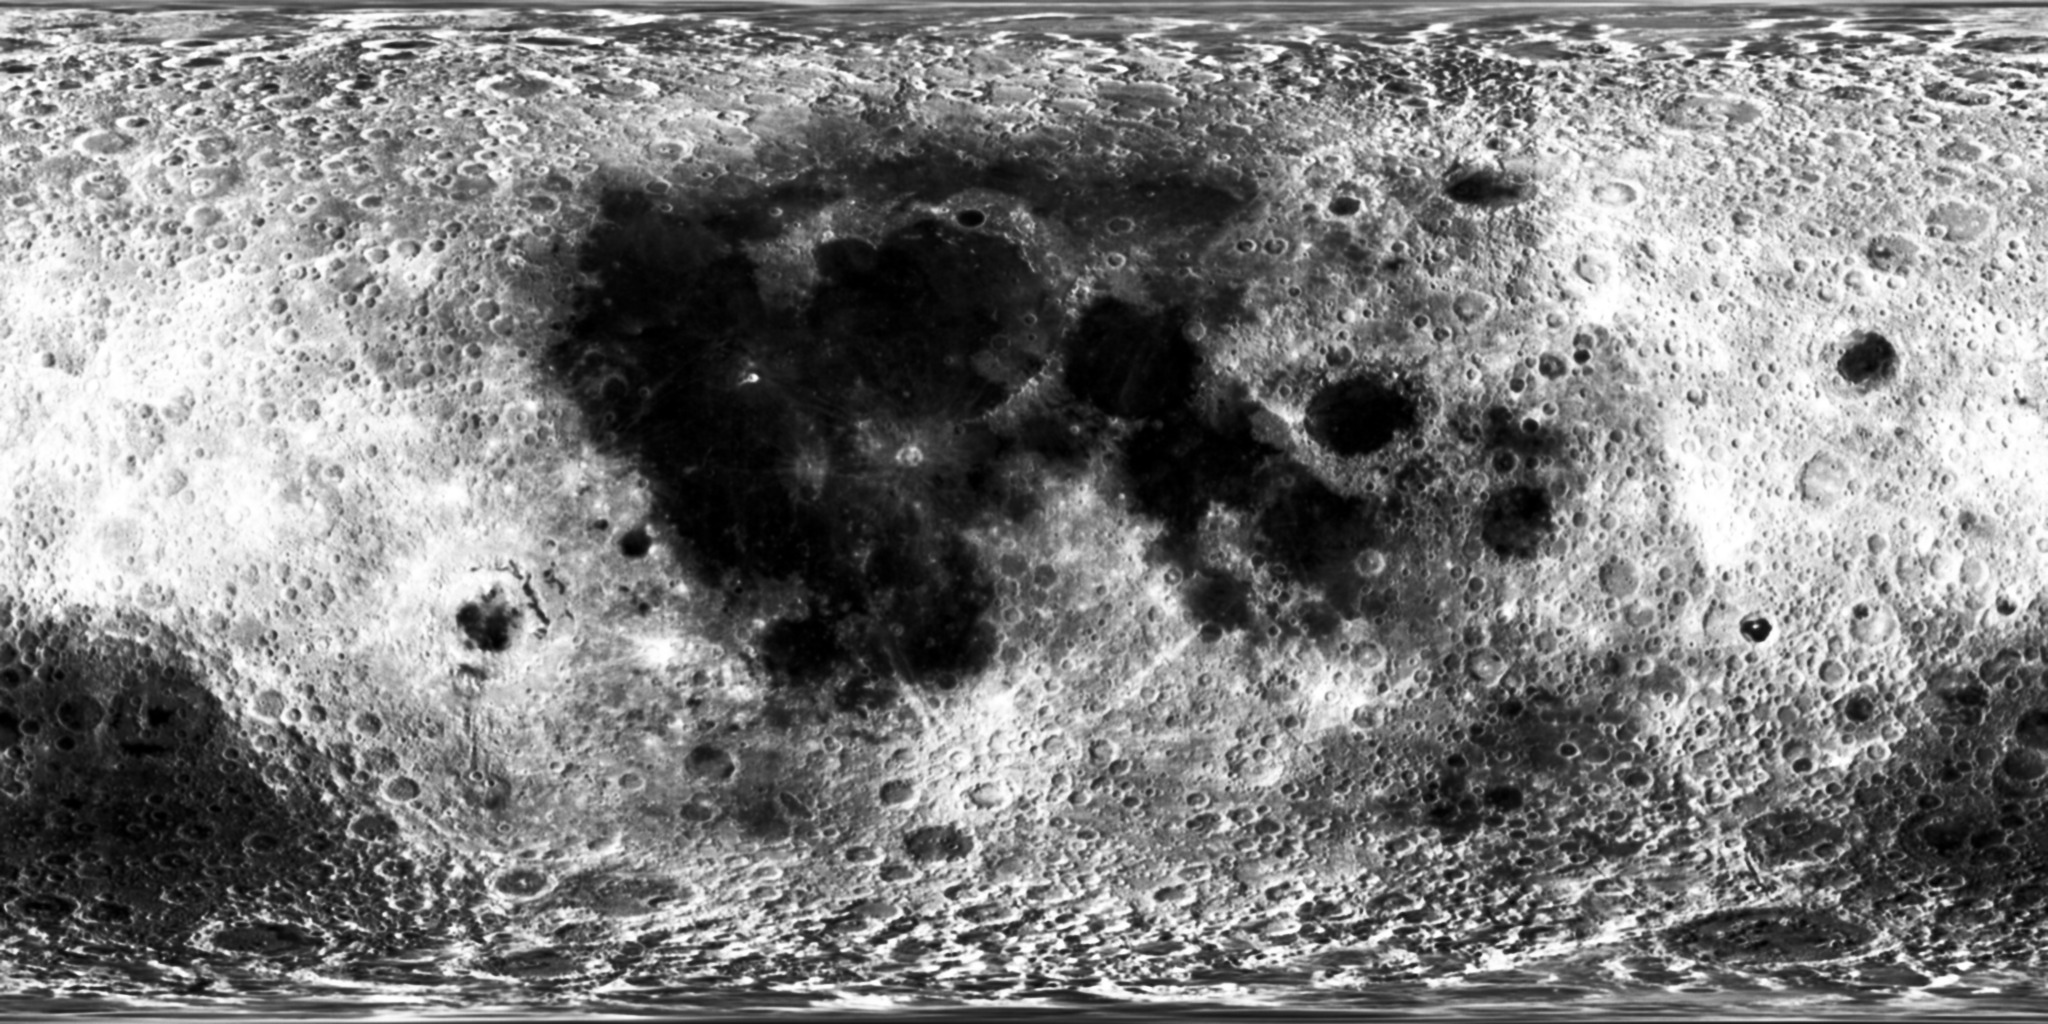
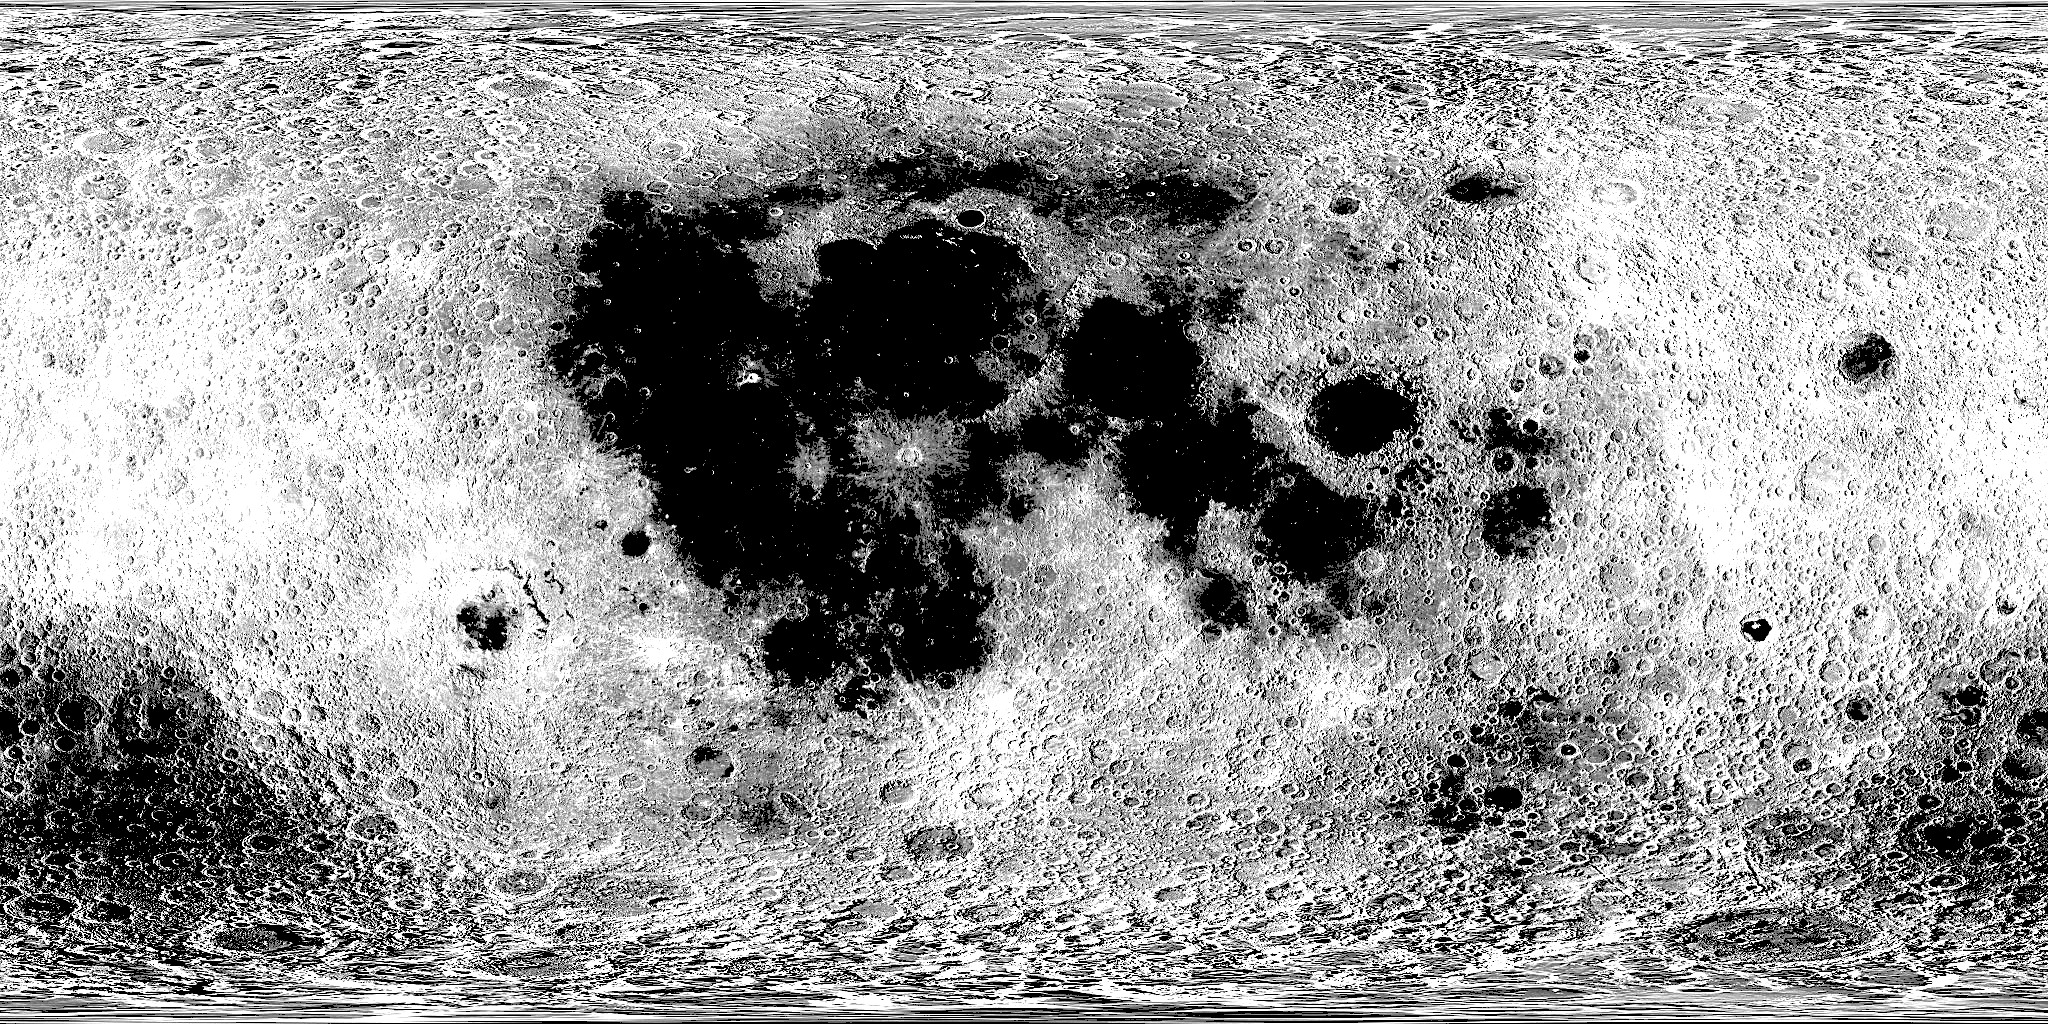
Strengthen lunar bump relief

diff --git a/app.js b/app.js
@@ -31,7 +31,7 @@ const _viewDir = new THREE.Vector3();
 const _toEarth = new THREE.Vector3();
 const _zAxis = new THREE.Vector3(0, 0, 1);
 const MOON_MAP_URL = "moon-map.jpg";
-const MOON_BUMP_URL = "moon-bump.jpg";
+const MOON_BUMP_URL = "moon-bump.jpg?v=2";
 
 const raycaster = new THREE.Raycaster();
 const pointer = new THREE.Vector2();
@@ -184,8 +184,8 @@ function createMoon() {
   const mat = new THREE.MeshStandardMaterial({
     map: tex,
     bumpMap: bump,
-    bumpScale: 0.045,
-    roughness: 0.82,
+    bumpScale: 0.16,
+    roughness: 0.78,
     metalness: 0.02,
     emissive: new THREE.Color(0x1a1a24),
     emissiveIntensity: 0.12,